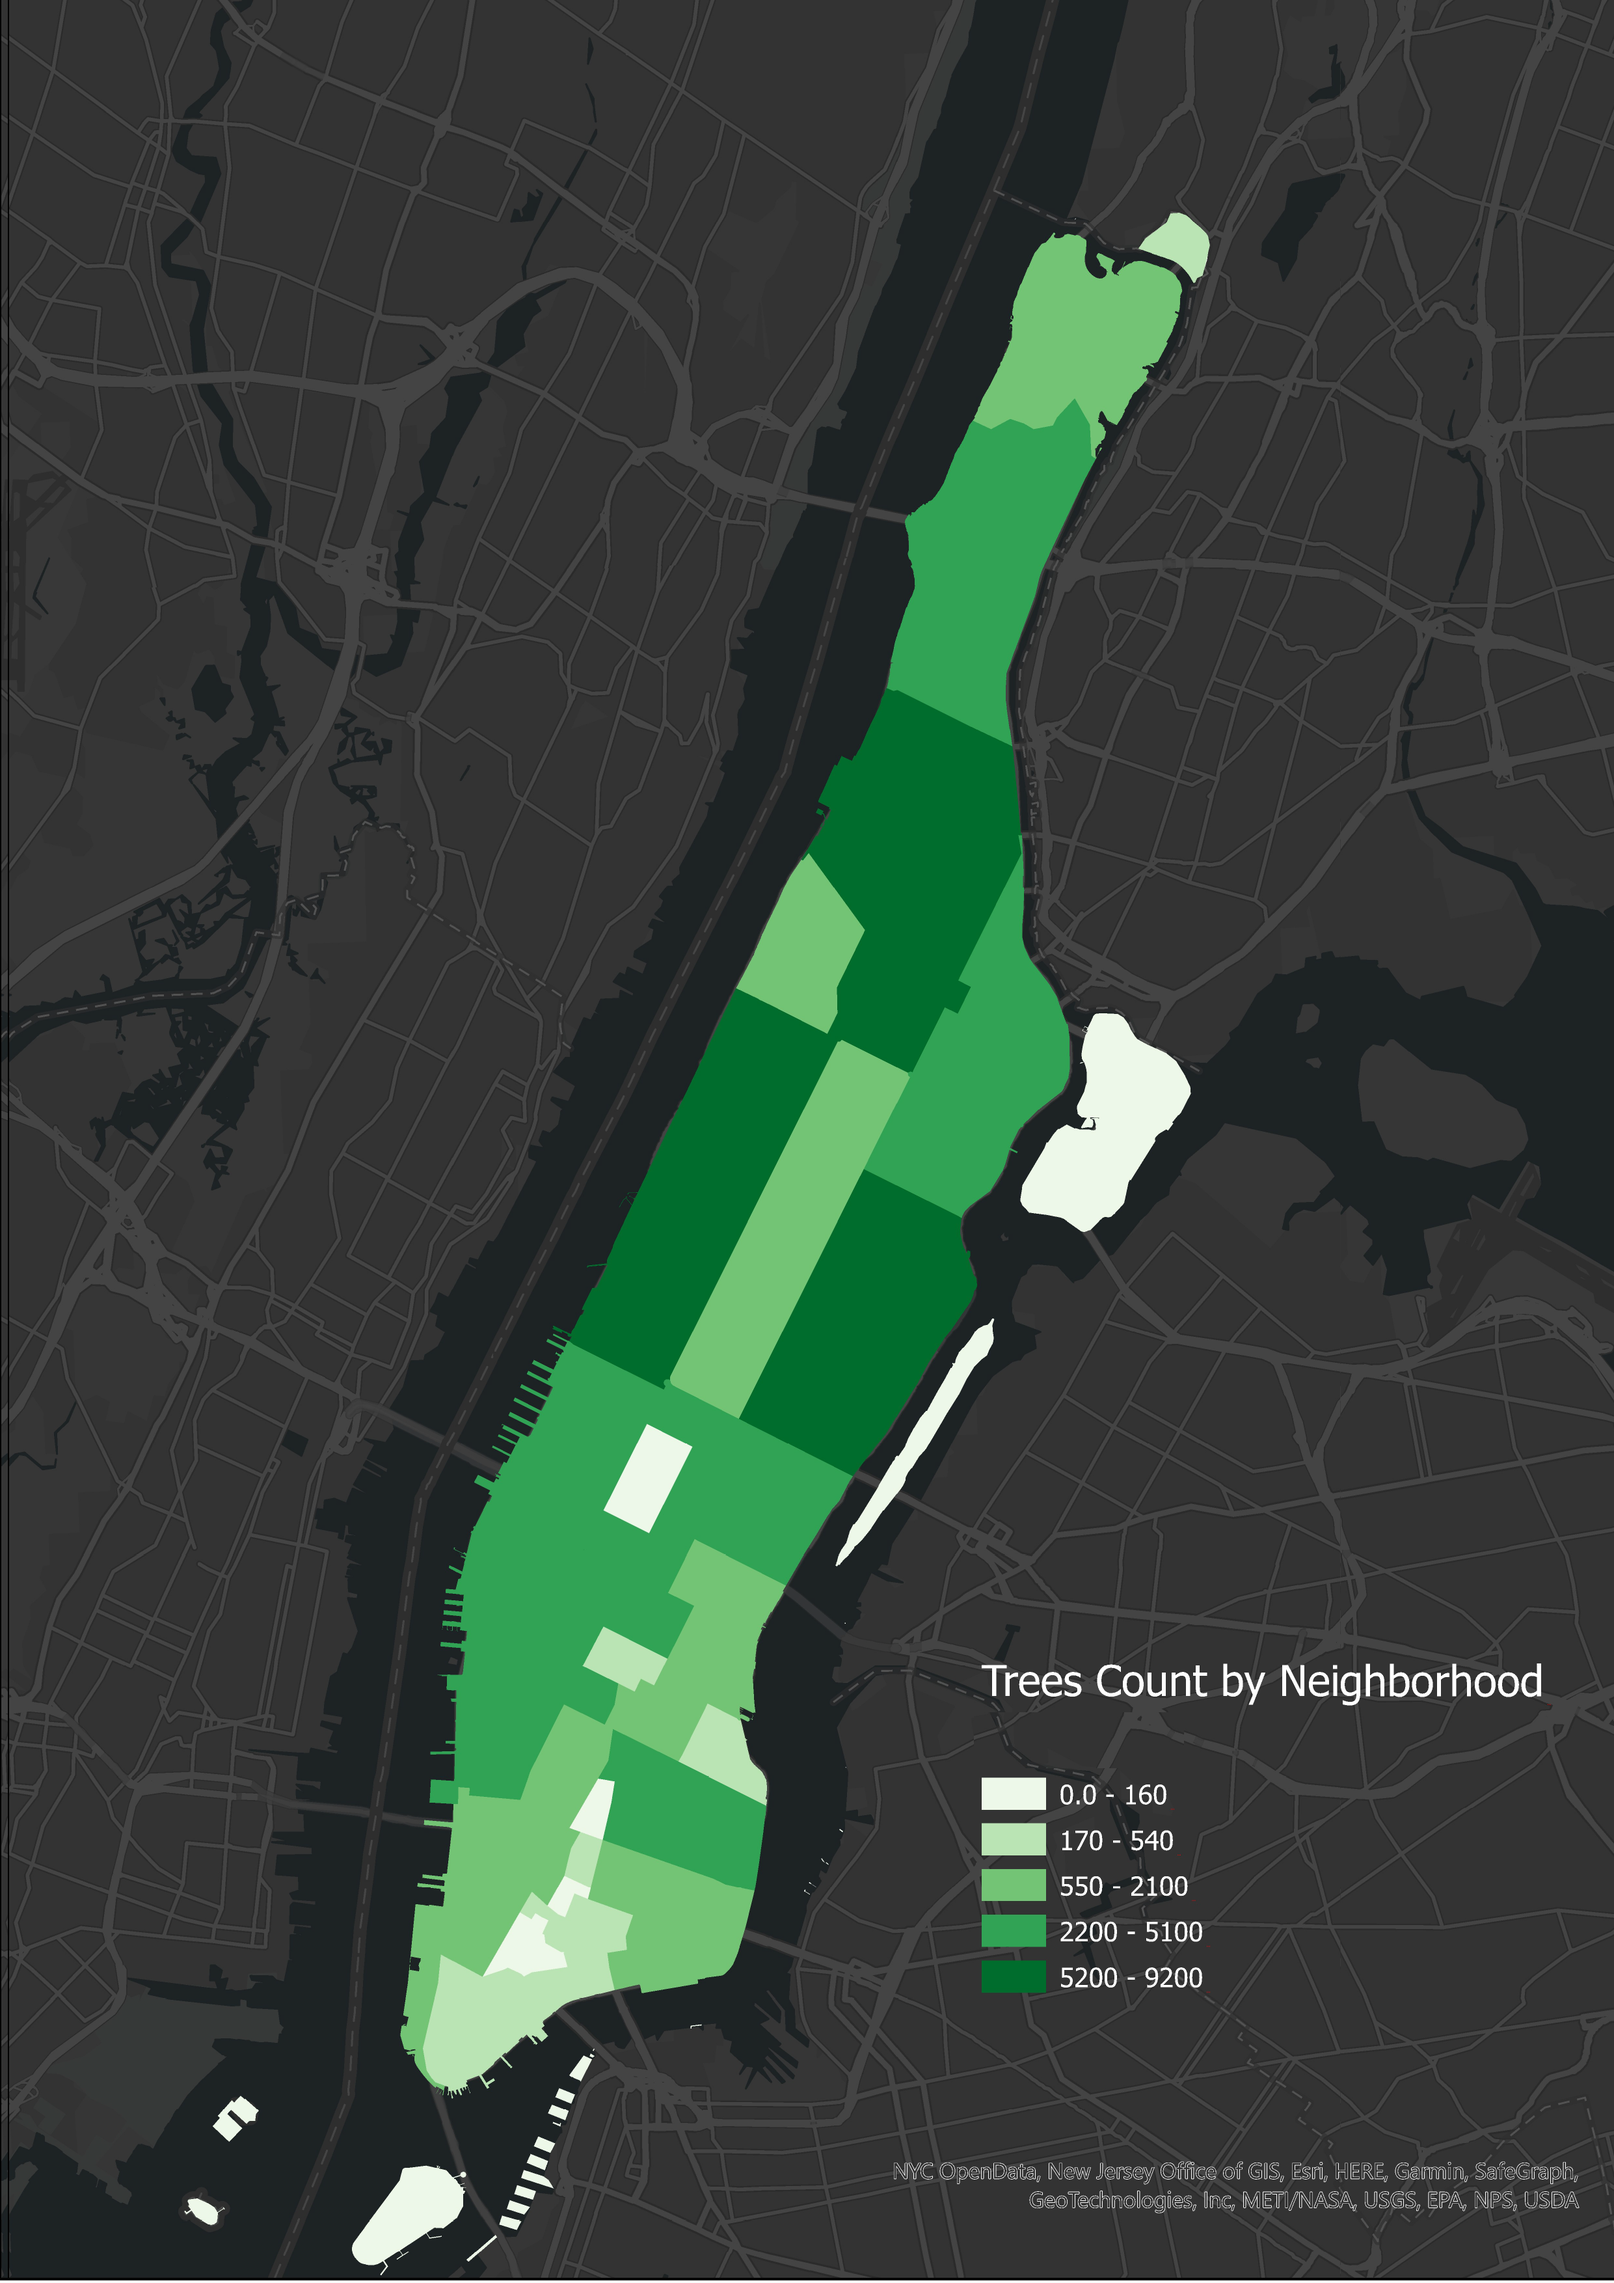
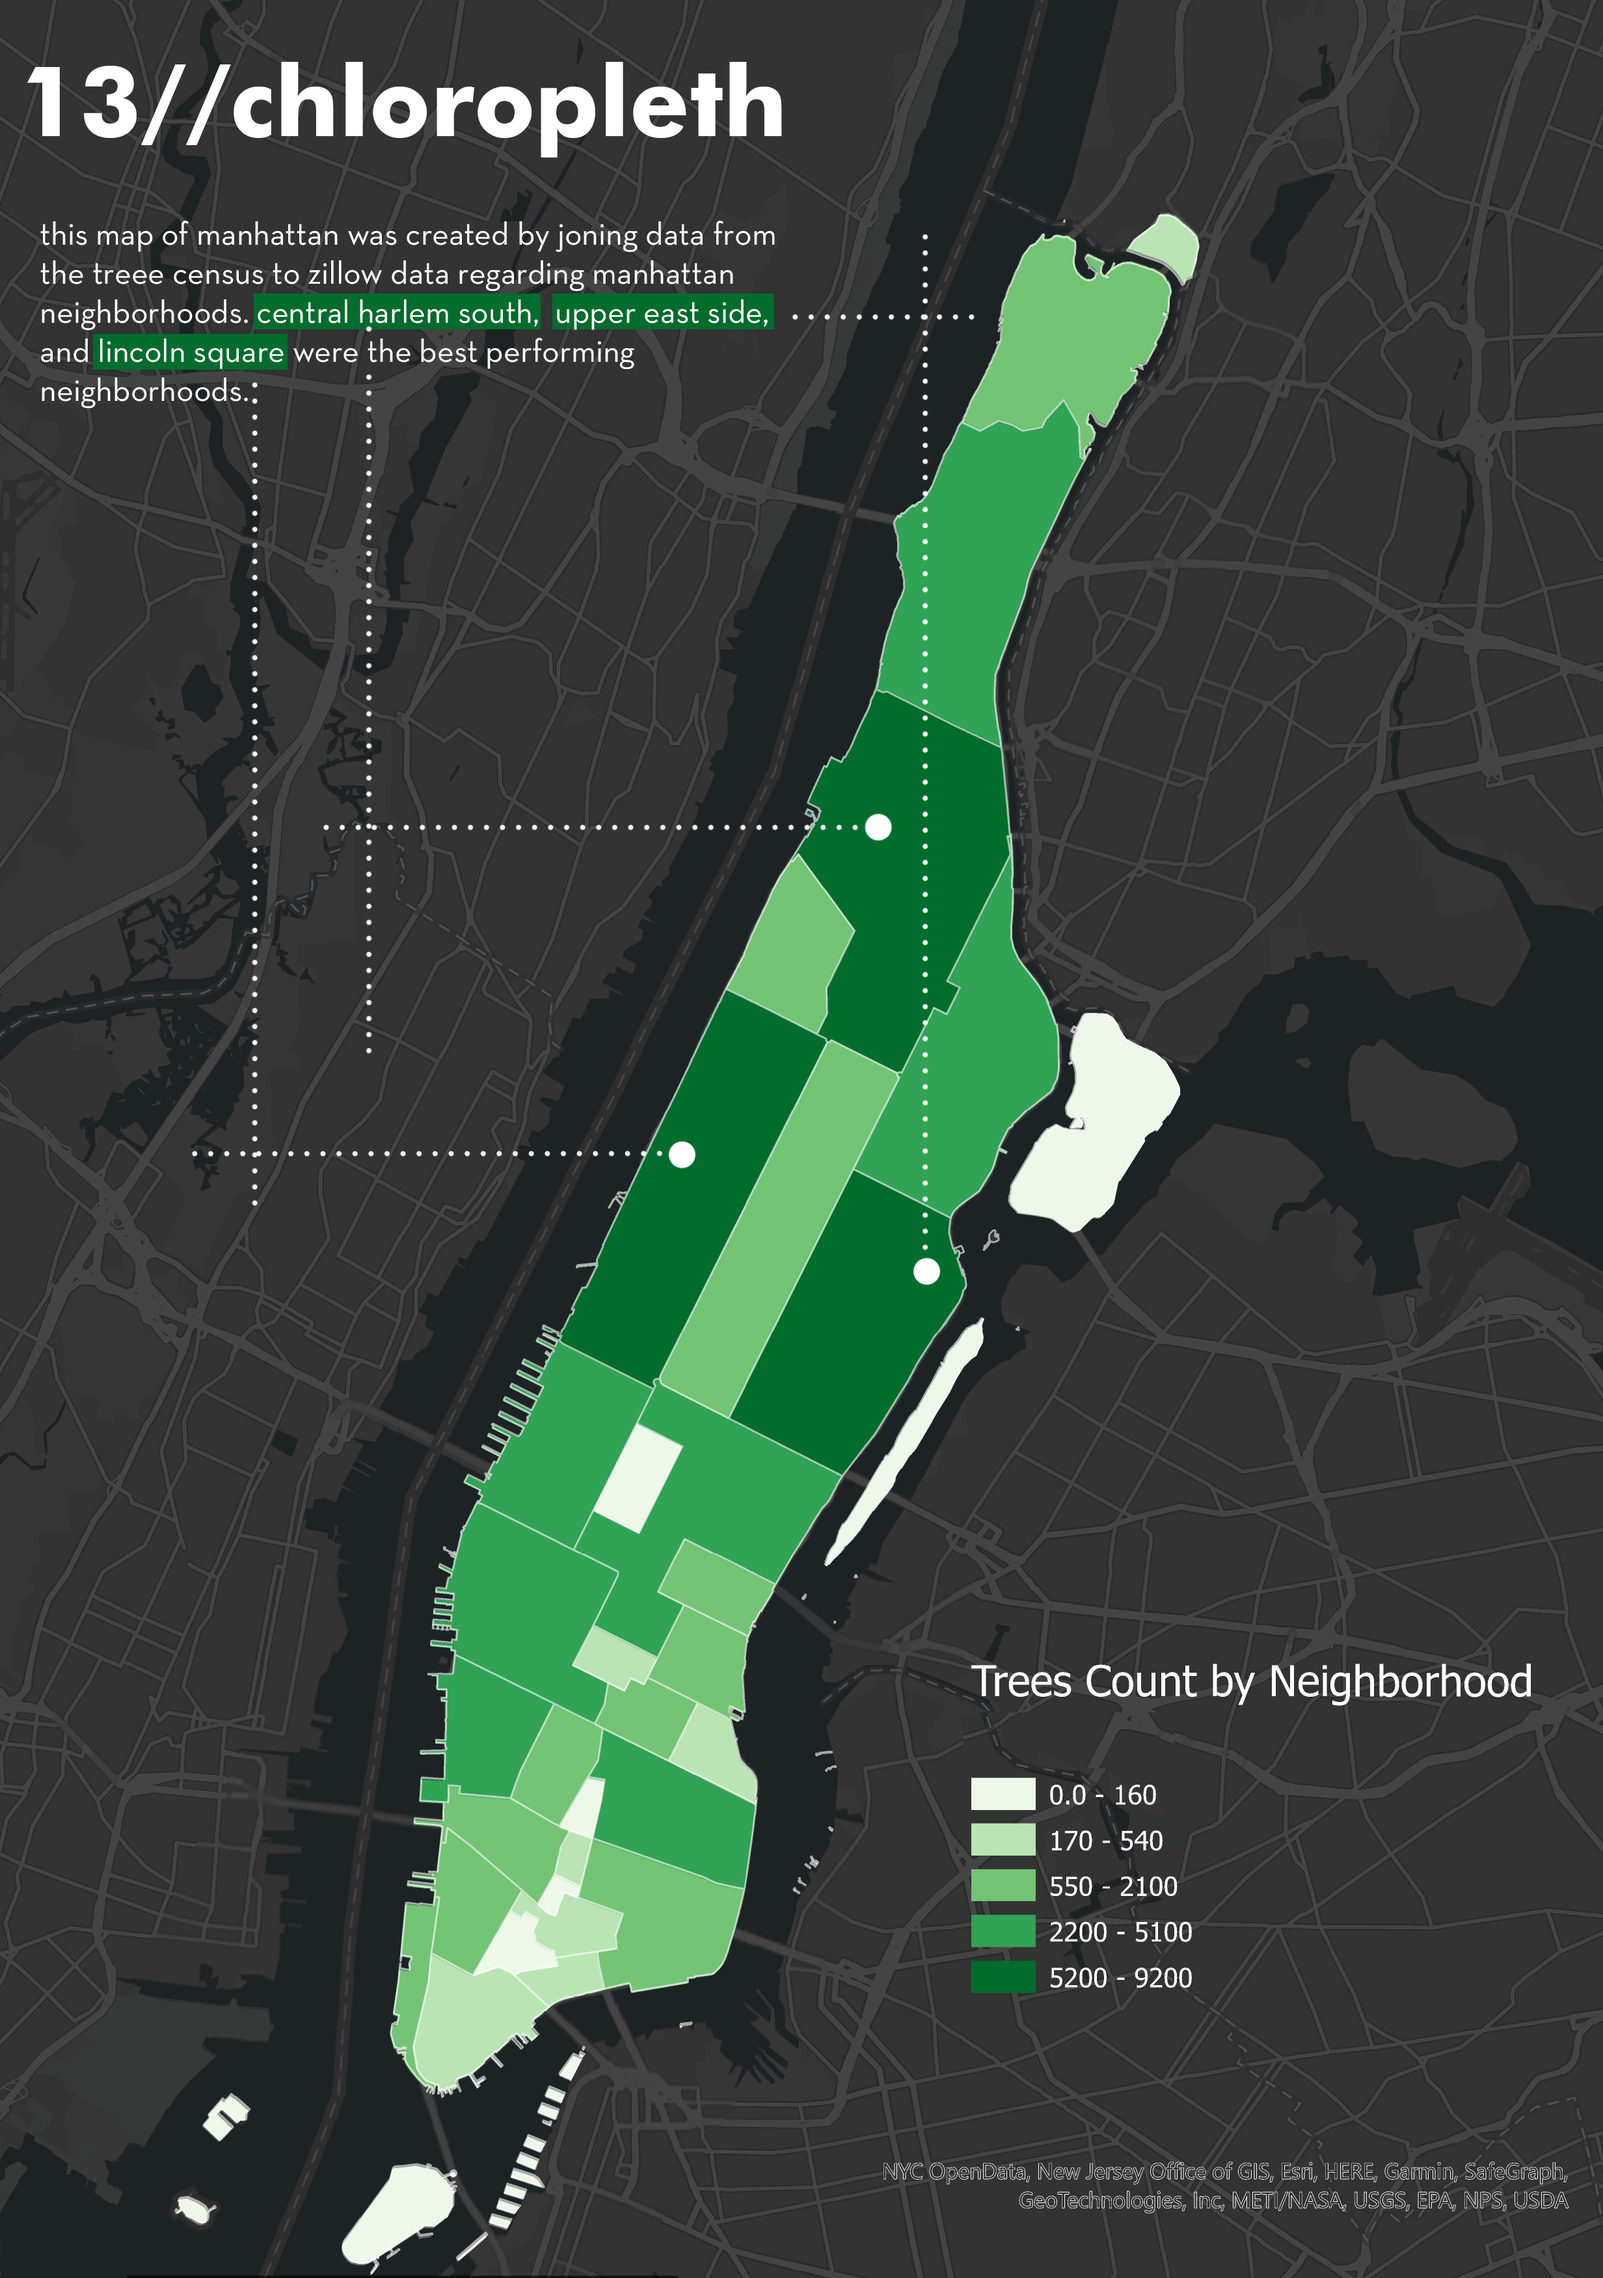
13

diff --git a/_maps/23_skhare.md b/_maps/23_skhare.md
@@ -1,0 +1,7 @@
+---
+day: 23
+creator: Samriddhi Khare
+title: Chloropleth
+thumbnail: /assets/thumbnails/23_skhare.png
+source: https://...  # Add a link to your source code here
+---
